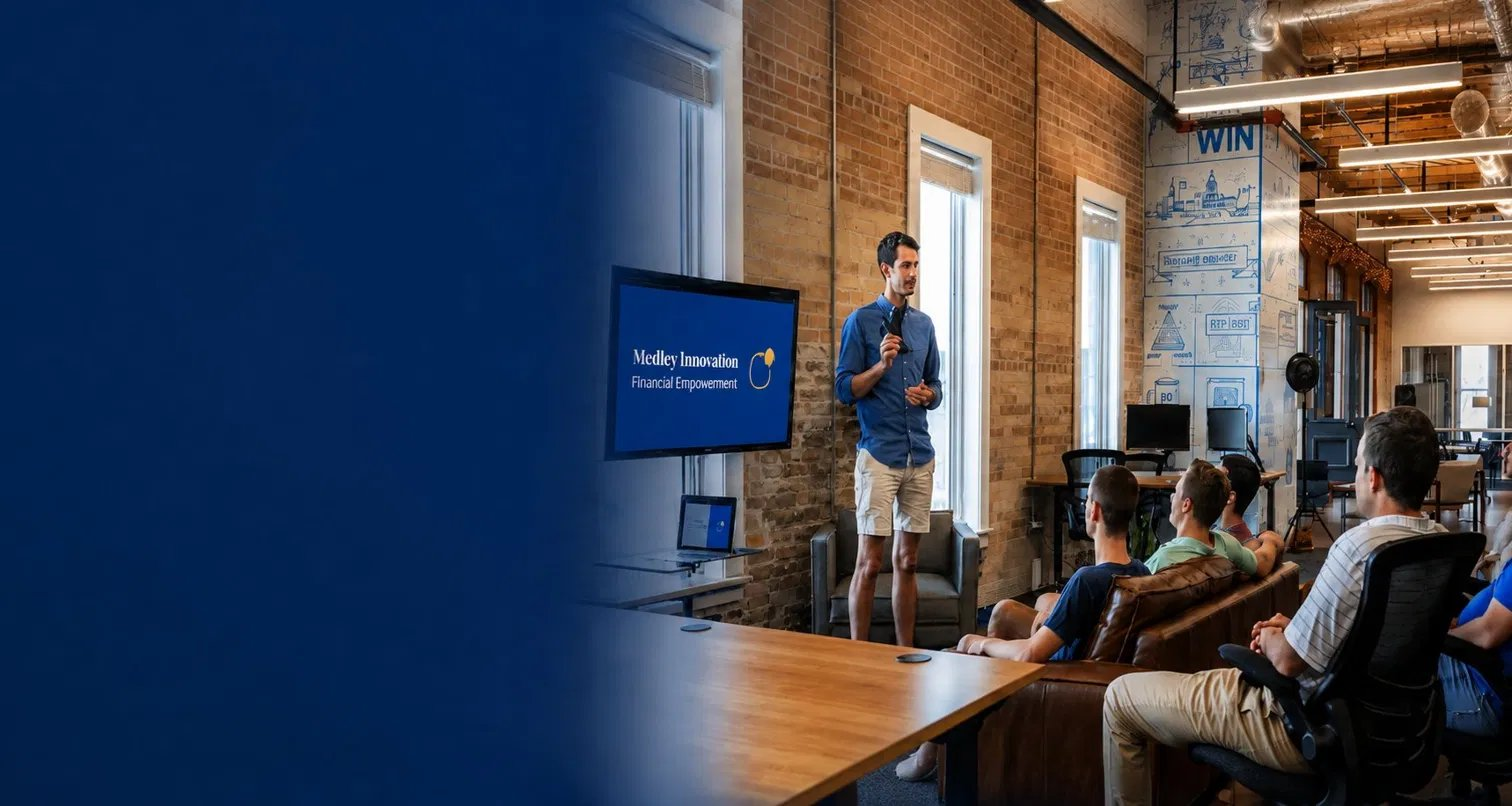
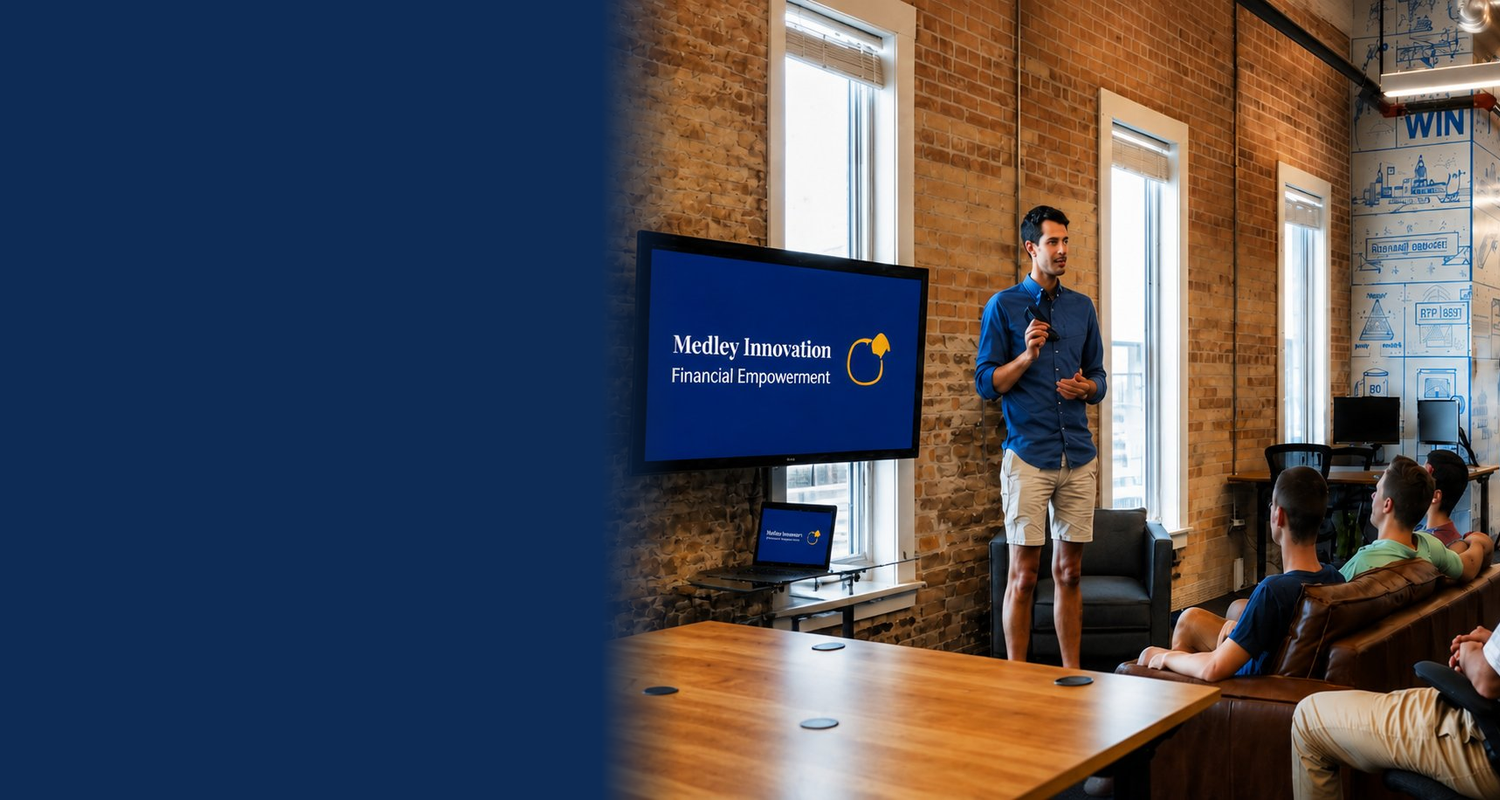
Add files via upload

diff --git a/community-wellness.html b/community-wellness.html
@@ -65,8 +65,8 @@
 
   /* HERO */
   .hero {
-    background: linear-gradient(to right, rgba(13,43,85,1) 0%, rgba(13,43,85,1) 60%, rgba(13,43,85,0.4) 70%, rgba(13,43,85,0) 78%), url("hero-community.png") center center / cover no-repeat;
-    padding: 72px 48px 80px;
+    background: url("hero-community.png") left top / 100% 100% no-repeat;
+    padding: 88px 48px 96px;
     position: relative; overflow: hidden;
   }
   
@@ -158,8 +158,8 @@
     .nav-links li:last-child a { margin: 8px 24px 0; border-radius: 8px; }
     .nav-toggle { display: flex; }
     .hero {
-    background: linear-gradient(to right, rgba(13,43,85,1) 0%, rgba(13,43,85,1) 60%, rgba(13,43,85,0.4) 70%, rgba(13,43,85,0) 78%), url("hero-community.png") center center / cover no-repeat;
-    padding: 72px 48px 80px;
+    background: url("hero-community.png") left top / 100% 100% no-repeat;
+    padding: 88px 48px 96px;
     position: relative; overflow: hidden;
   }
     .hero h1 { font-size: 34px; }

diff --git a/career-readiness.html b/career-readiness.html
@@ -65,7 +65,7 @@
 
   /* HERO */
   .hero {
-    background: linear-gradient(to right, rgba(13,43,85,1) 0%, rgba(13,43,85,1) 52%, rgba(13,43,85,0.4) 64%, rgba(13,43,85,0) 74%), url("hero-career.png") center center / cover no-repeat;
+    background: url("hero-career.png") left top / 100% 100% no-repeat;
     padding: 72px 48px 80px;
     position: relative; overflow: hidden;
   }
@@ -158,7 +158,7 @@
     .nav-links li:last-child a { margin: 8px 24px 0; border-radius: 8px; }
     .nav-toggle { display: flex; }
     .hero {
-    background: linear-gradient(to right, rgba(13,43,85,1) 0%, rgba(13,43,85,1) 52%, rgba(13,43,85,0.4) 64%, rgba(13,43,85,0) 74%), url("hero-career.png") center center / cover no-repeat;
+    background: url("hero-career.png") left top / 100% 100% no-repeat;
     padding: 72px 48px 80px;
     position: relative; overflow: hidden;
   }

diff --git a/entrepreneurship.html b/entrepreneurship.html
@@ -65,7 +65,7 @@
 
   /* HERO */
   .hero {
-    background: linear-gradient(to right, rgba(13,43,85,1) 0%, rgba(13,43,85,1) 52%, rgba(13,43,85,0.4) 64%, rgba(13,43,85,0) 74%), url("hero-entrepreneurship.png") center center / cover no-repeat;
+    background: url("hero-entrepreneurship.png") left top / 100% 100% no-repeat;
     padding: 72px 48px 80px;
     position: relative; overflow: hidden;
   }
@@ -158,7 +158,7 @@
     .nav-links li:last-child a { margin: 8px 24px 0; border-radius: 8px; }
     .nav-toggle { display: flex; }
     .hero {
-    background: linear-gradient(to right, rgba(13,43,85,1) 0%, rgba(13,43,85,1) 52%, rgba(13,43,85,0.4) 64%, rgba(13,43,85,0) 74%), url("hero-entrepreneurship.png") center center / cover no-repeat;
+    background: url("hero-entrepreneurship.png") left top / 100% 100% no-repeat;
     padding: 72px 48px 80px;
     position: relative; overflow: hidden;
   }

diff --git a/reentry-empowerment.html b/reentry-empowerment.html
@@ -65,7 +65,7 @@
 
   /* HERO */
   .hero {
-    background: linear-gradient(to right, rgba(13,43,85,1) 0%, rgba(13,43,85,1) 60%, rgba(13,43,85,0.4) 70%, rgba(13,43,85,0) 78%), url("hero-reentry.png") center center / cover no-repeat;
+    background: url("hero-reentry.png") left top / 100% 100% no-repeat;
     padding: 72px 48px 80px;
     position: relative; overflow: hidden;
   }
@@ -158,7 +158,7 @@
     .nav-links li:last-child a { margin: 8px 24px 0; border-radius: 8px; }
     .nav-toggle { display: flex; }
     .hero {
-    background: linear-gradient(to right, rgba(13,43,85,1) 0%, rgba(13,43,85,1) 60%, rgba(13,43,85,0.4) 70%, rgba(13,43,85,0) 78%), url("hero-reentry.png") center center / cover no-repeat;
+    background: url("hero-reentry.png") left top / 100% 100% no-repeat;
     padding: 72px 48px 80px;
     position: relative; overflow: hidden;
   }